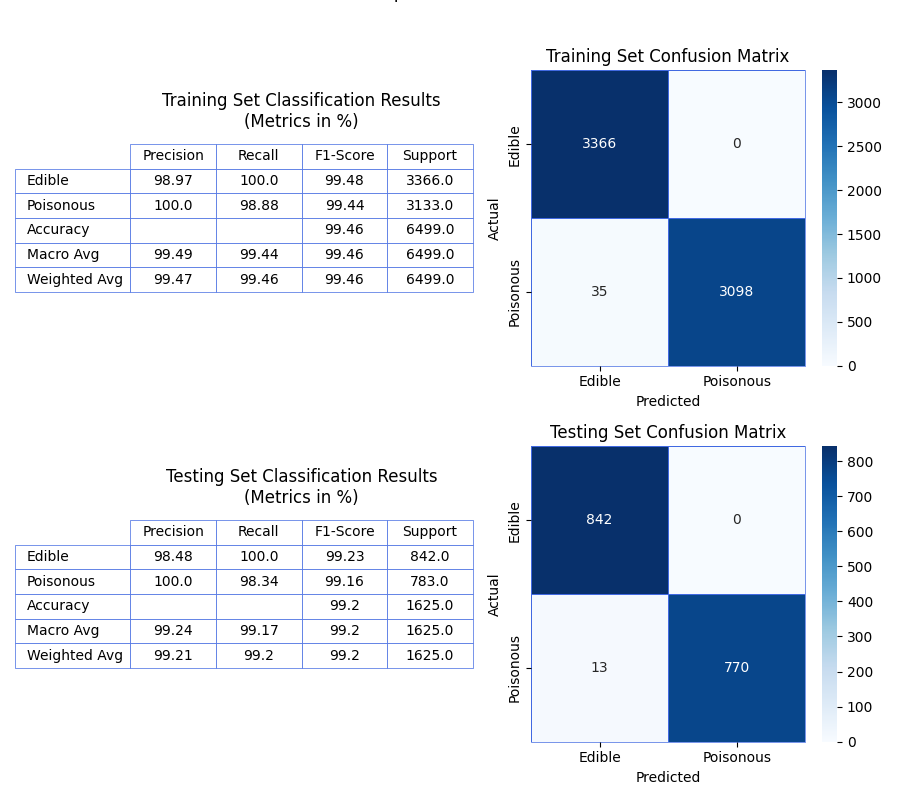
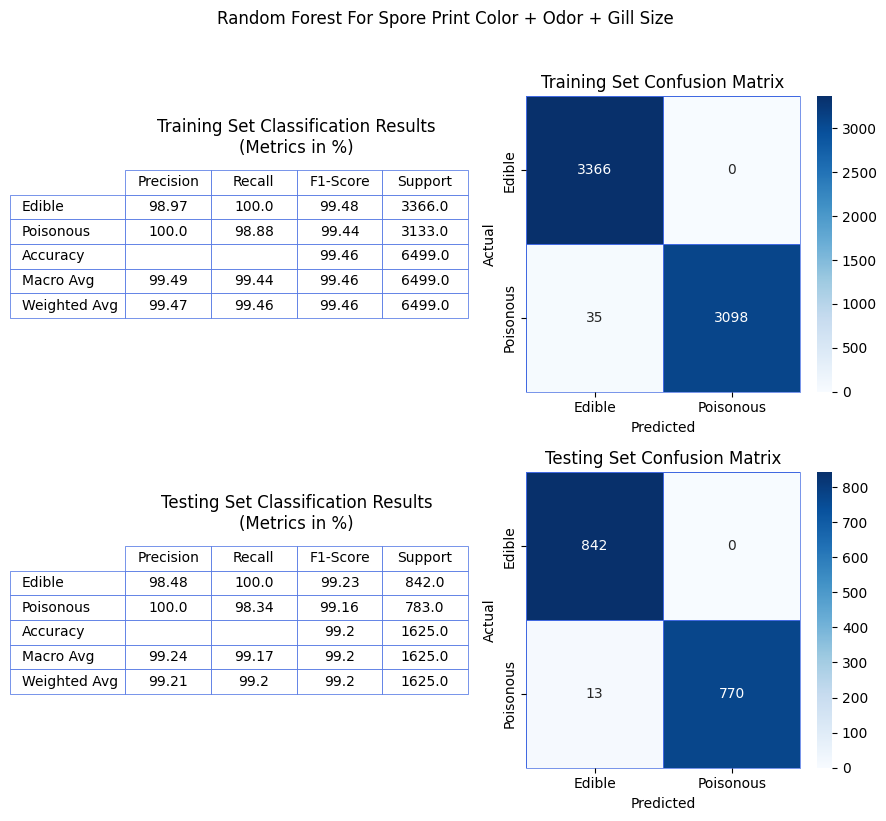
Saving changes.

diff --git a/notebooks/Midterm/README.md b/notebooks/Midterm/README.md
@@ -1,20 +1,20 @@
-# Jordan Project 03
+# Jordan Midterm
 ### Author:  [JfromNWMS](https://github.com/JfromNWMS)
 
 ## Overview
-This project uses the Titanic dataset to build and evaluate three classifiers: Decision Tree, Support Vector Machine, and Neural Network. We compare model performance across three different feature sets and reflect on their effectiveness for predicting passenger survival.
+This project uses the Mushroom dataset to evalutate and compare Decision Tree and Random Forest models.  The Mushroom dataset contains 8,124 samples of mushrooms with 23 different features.  The samples correspond to 23 species of gilled mushrooms in the Agaricus and Lepiota Familys.
 
 This project is a guided notebook assignment that demonstrates how to:
 - Load and explore a dataset.
 - Choose and justify features for predicting a target variable.
-- Predict a categorical target and evaluate performance of Decision Tree, Support Vector Machine and Neural Network classifiers.
+- Predict a categorical target and evaluate performance of Decision Tree and Random Forest classifiers.
 - Document work in a structured Jupyter Notebook.
 
-A link to the notebook can be found here: [ml03_jordan.ipynb](https://github.com/JfromNWMS/applied-ml-jordan/blob/main/notebooks/project03/ml03_jordan.ipynb)
+A link to the notebook can be found here: [ml_midterm_jordan.ipynb](https://github.com/JfromNWMS/applied-ml-jordan/blob/main/notebooks/midterm/ml_midterm_jordan.ipynb)
 
 ## Dataset  
-- We use the built-in dataset from seaborn:  
-   - [Titanic-Dataset](https://www.kaggle.com/datasets/yasserh/titanic-dataset)
+- We use the mushroom dataset from UCI:  
+   - [Mushroom](https://archive.ics.uci.edu/dataset/73/mushroom)
 
 ## Instructions to Set up Virtual Environment
 
@@ -73,11 +73,8 @@ To run notebooks directly in VS Code, click on a cell and press:
 <br>Ctrl Enter to run cell and stay in place
 <br>Save often or enable File / Auto Save.
 
-## Classification Results For Project 3
+## Classification Results For Midterm
 
-
-![alt text](tree_classification_all_cases.png)
-![alt text](tree_plot_all_cases.png)
-![alt text](svc_classification_all_cases.png)
-![alt text](nn_classification_age_familysize.png)
-
+![alt text](tree_classification.png)
+![alt text](tree_plot.png)
+![alt text](rf_classification.png)
